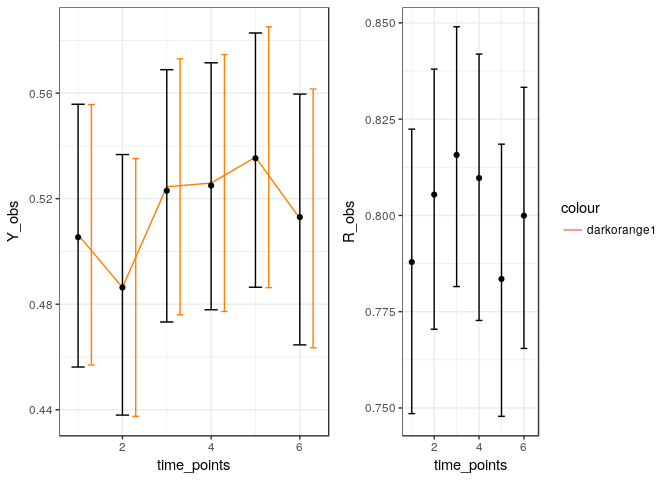
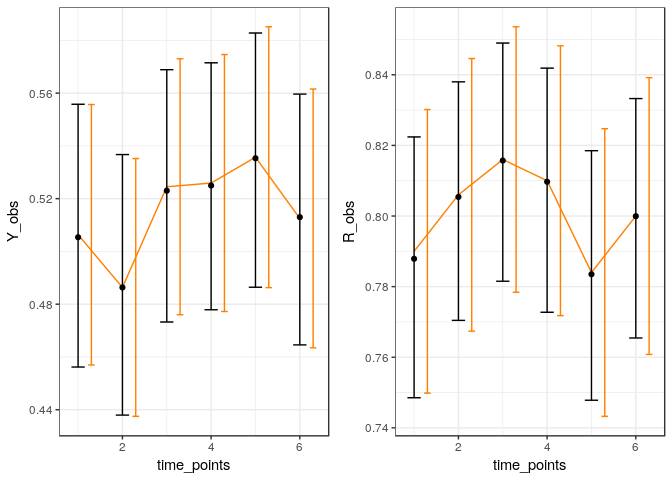
Update readme

diff --git a/README.md b/README.md
@@ -135,9 +135,7 @@ imputes_tlo <- ParafacMI(Y = fake_data$Y, R = fake_data$R, chain = fit_mnar,
 There is currently not much to speak of in the way of model diagnostics, but one sanity check is to check that inferences on *identified* parameters can be reproduced by the model. The simplest thing to look at is the marginal means of *R*<sub>*j*</sub> and of (*Y*<sub>*j*</sub>|*R*<sub>*j*</sub> = 1). The convenience function `ParafacObserved` computes these:
 
 ``` r
-marginal_means <- ParafacObserved(fit_mnar, fake_data$Y, fake_data$Y, do_plot = TRUE)
+marginal_means <- ParafacObserved(fit_mnar, fake_data$Y, fake_data$R, do_plot = TRUE)
 ```
-
-    ## Warning: Removed 6 rows containing missing values (geom_errorbar).
 
 ![](README_files/figure-markdown_github/unnamed-chunk-11-1.png)
